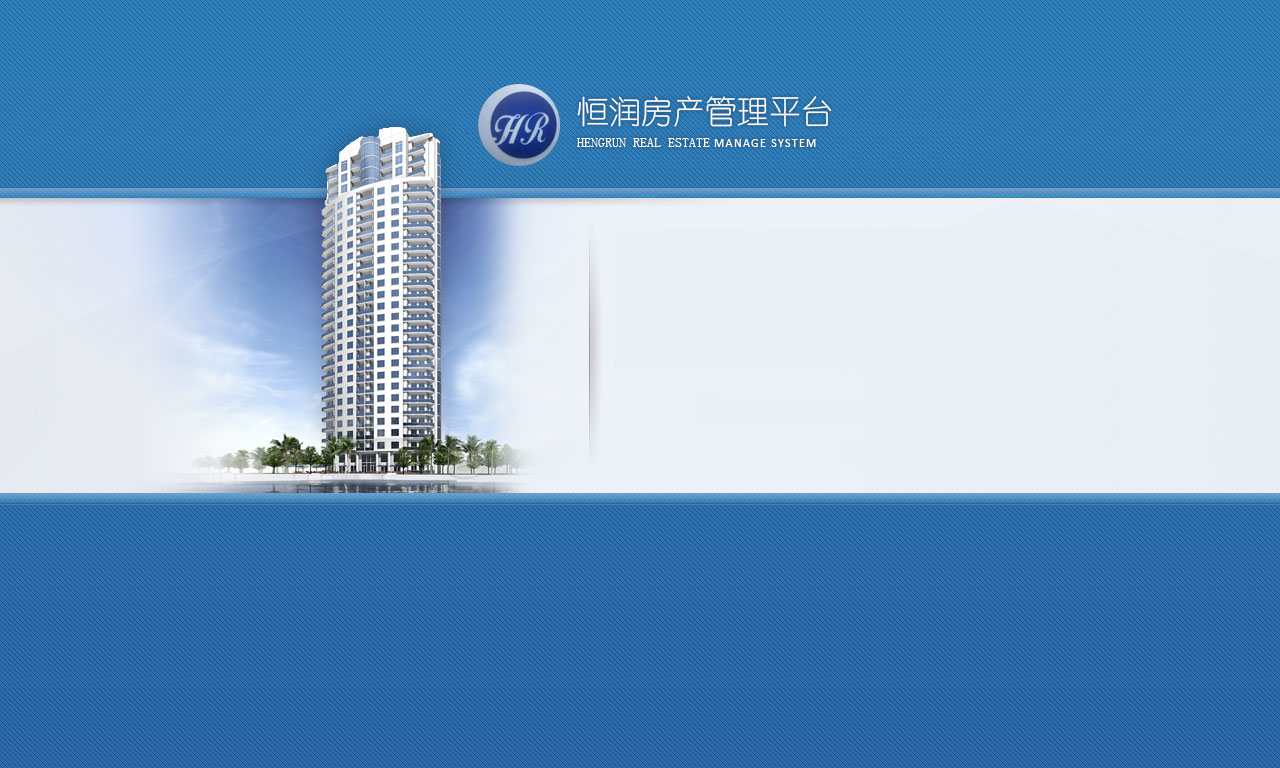
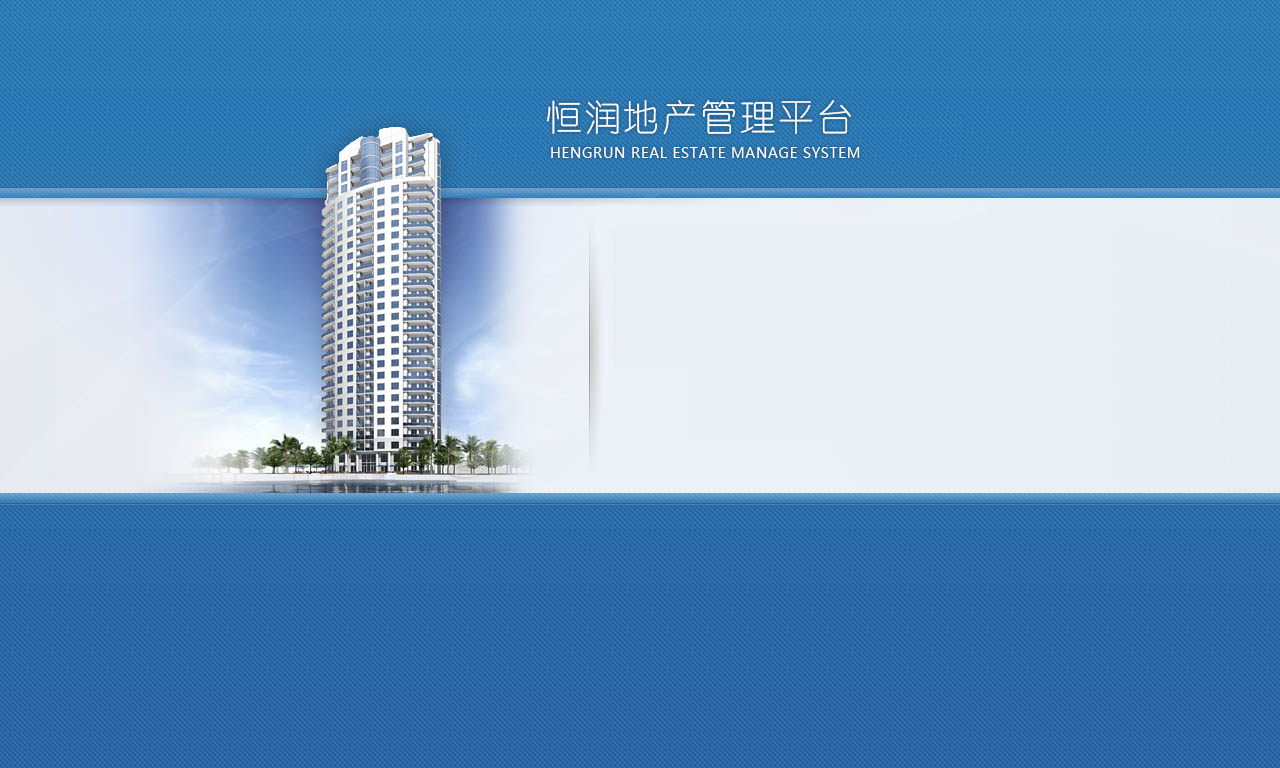
logo文字修改

Changed region(s): [[0.375, 0.0938, 0.6875, 0.2188]]

diff --git a/Application/Admin/View/WxMaterial/lists.html b/Application/Admin/View/WxMaterial/lists.html
@@ -1,0 +1,5 @@
+<extend name="Public/base" />
+
+<block name="content">
+	
+</block>

diff --git a/Application/Admin/Conf/config.php b/Application/Admin/Conf/config.php
@@ -296,6 +296,11 @@ return array(
 					'id'	=>	125,
 					'name'	=>	'自定义菜单',
 					'action'	=>	'Weixin/menulist'
+				),
+				array(
+					'id'	=>	126,
+					'name'	=>	'素材管理',
+					'action'	=>	'WxMaterial/lists'
 				)
 			)
 		)

diff --git a/Application/Admin/Controller/WxMaterialController.class.php b/Application/Admin/Controller/WxMaterialController.class.php
@@ -1,0 +1,14 @@
+<?php
+namespace Admin\Controller;
+
+class WxMaterialController extends AdminController{
+	public function lists(){
+		$this->authView(126);
+
+		$WxMaterial = M('WxMaterial');
+
+		
+
+		$this->display();
+	}
+}
